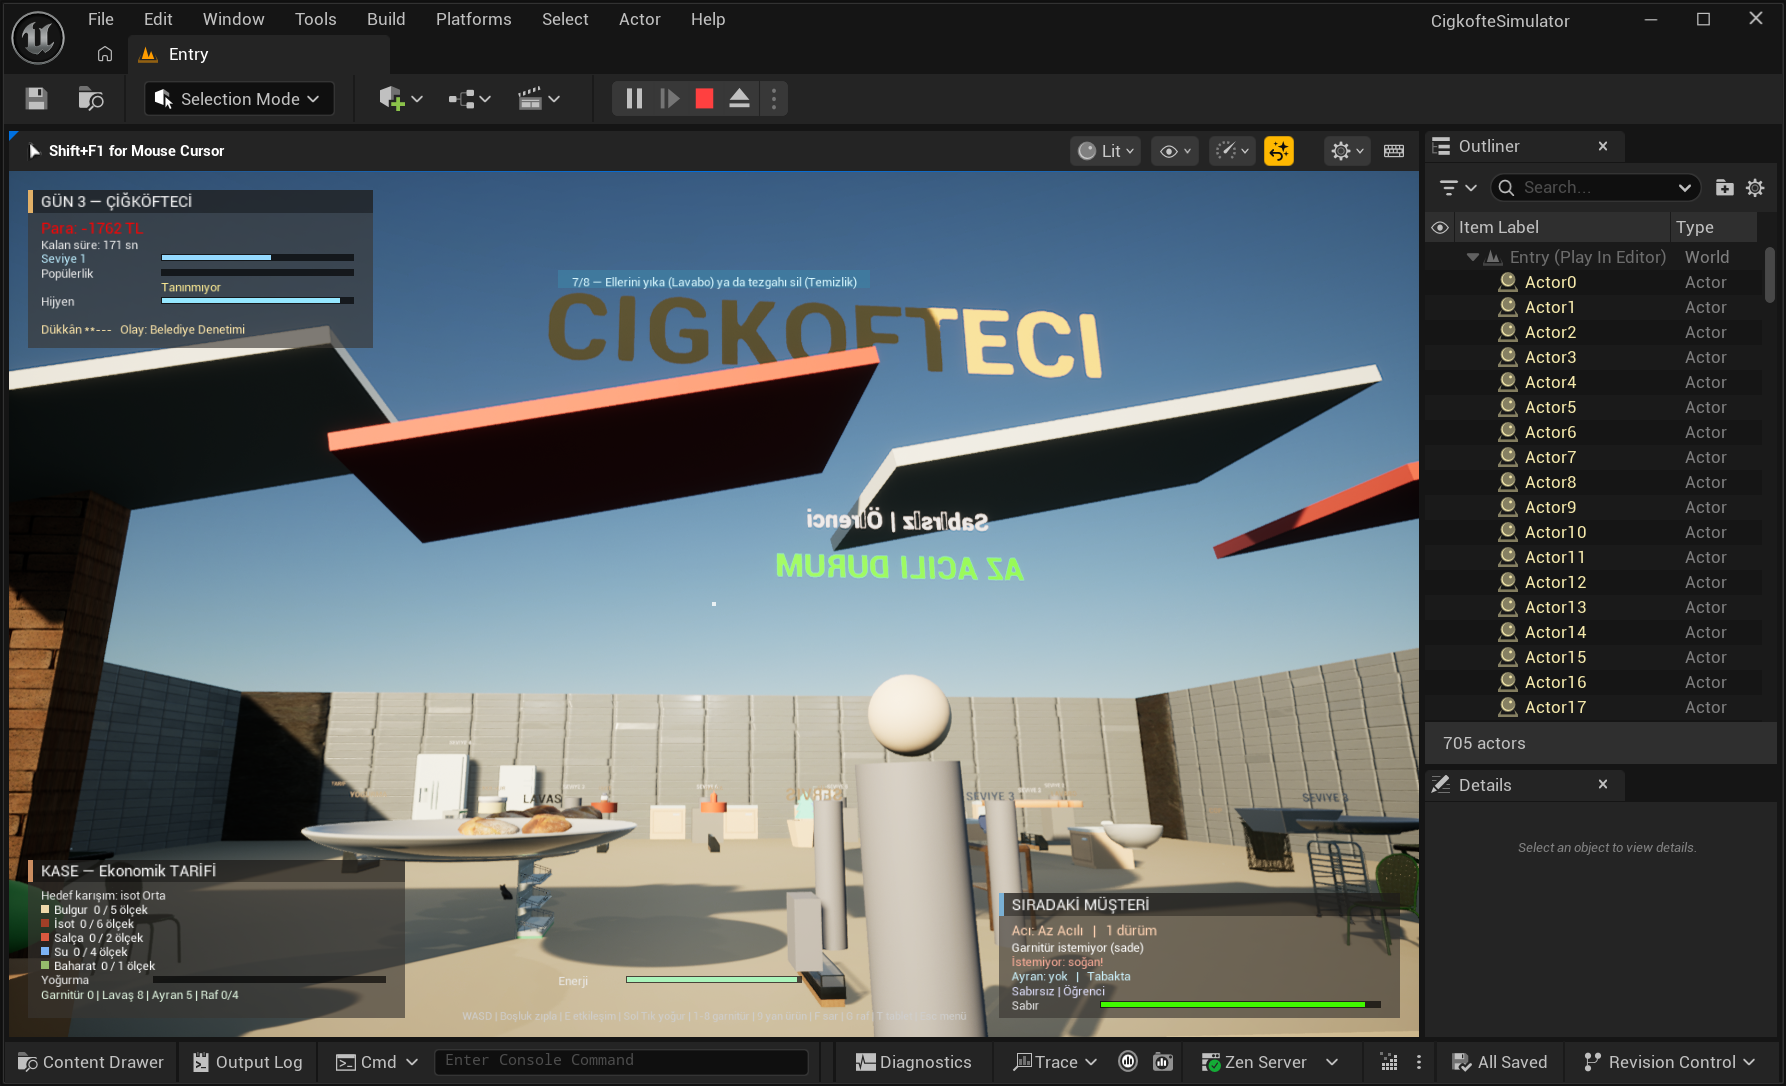
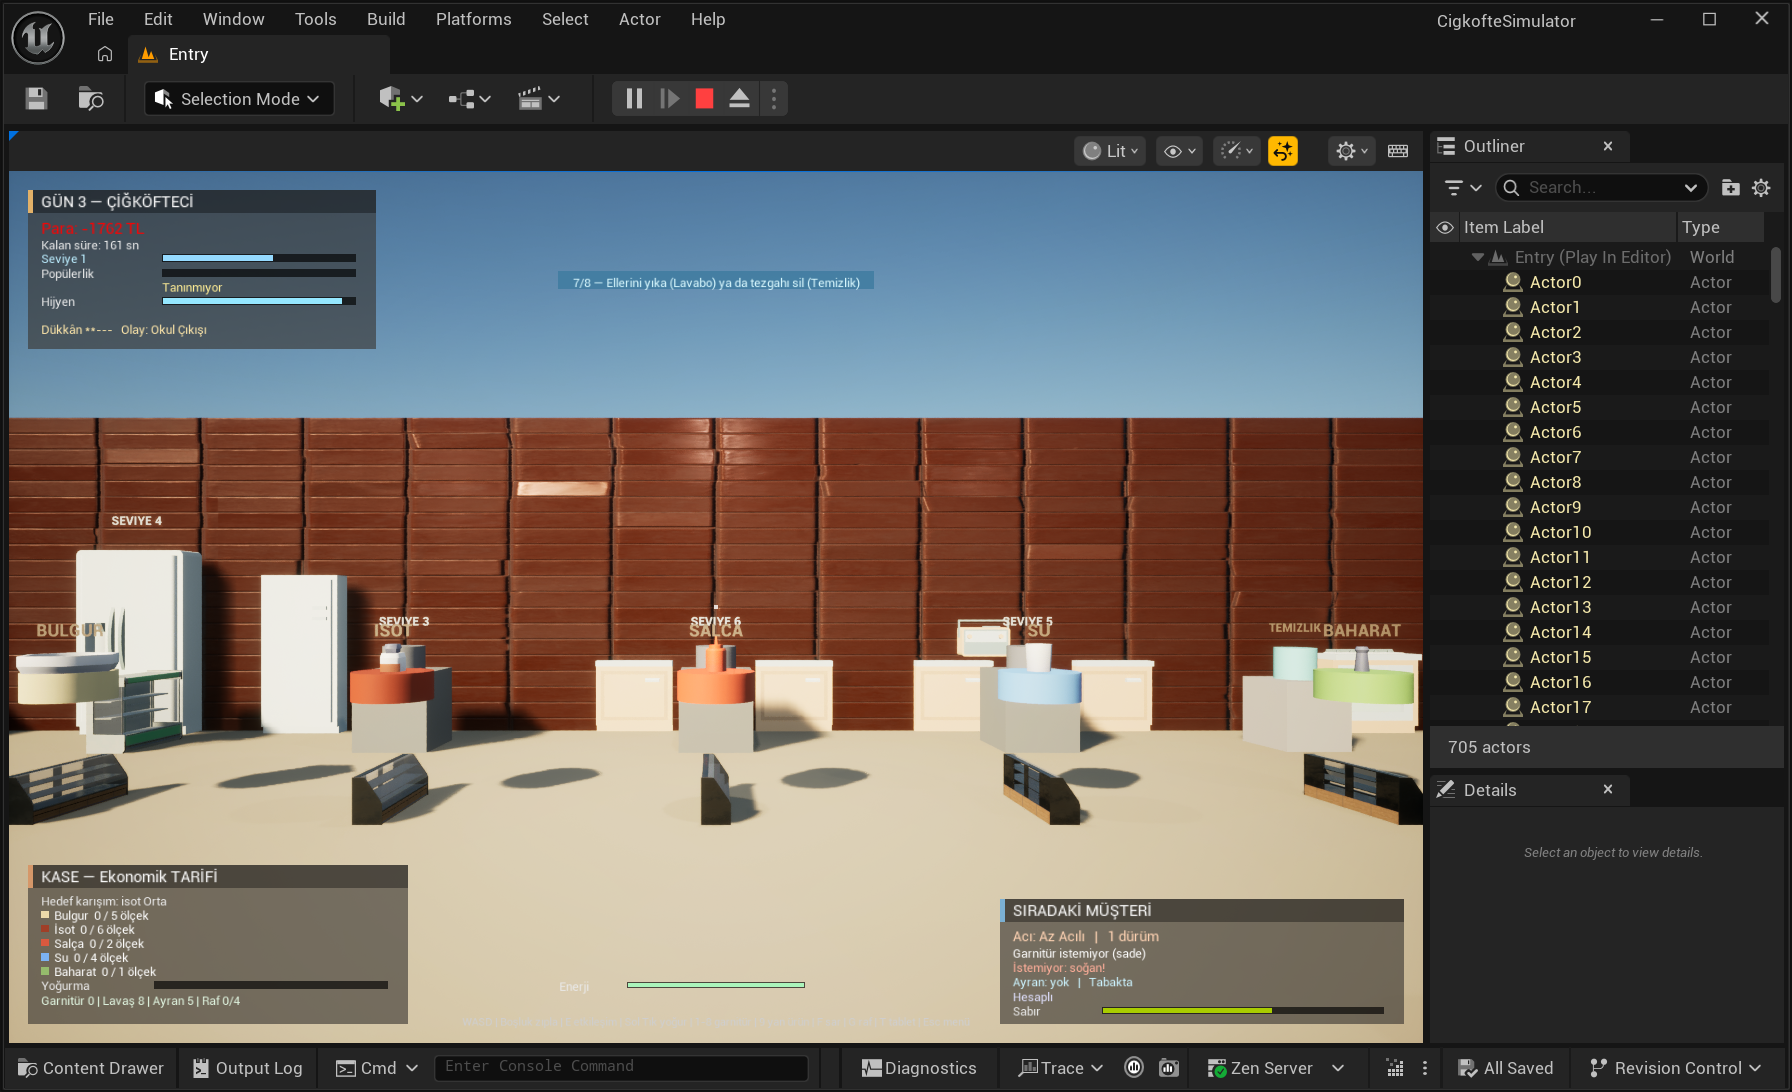
fix: warm red tile inside, not cool grey
Went back and looked at the tiled wall from the counter, which is where the
player stands and which the first shot did not show - that one was taken from
the street because PIE starts the day-3 save outside.

The white tile instance renders as flat cool grey in this lighting, and a cool
grey interior is the one thing the style guide rules out by name: the shop is
meant to read warm, with daylight from the street as the only cool thing in
frame. Red tile fixes it and is also what a Turkish lokanta actually has on its
walls. The brick facade stays as it was.

The tile repeat is still dense for a wall this size - the boxes are scaled up
hugely and the material's UVs were not authored for that - but with the warm
tone it reads as a tiled wall rather than as a texture stretched over a box, so
it can wait behind things that matter more.

Verified from inside the shop this time: ValidateAll all four stages PASS, 74
tests, zero LogCig errors, save untouched.
docs/screenshots/A2-walls-tiled.png replaced with the interior shot.

diff --git a/Source/CigkofteSimulator/World/CigWorldBuilder.cpp b/Source/CigkofteSimulator/World/CigWorldBuilder.cpp
@@ -33,11 +33,18 @@ void UCigWorldBuilder::OnInit()
 	ConeMesh = LoadObject<UStaticMesh>(nullptr, TEXT("/Engine/BasicShapes/Cone.Cone"));
 	BaseMaterial = LoadObject<UMaterialInterface>(nullptr, TEXT("/Engine/BasicShapes/BasicShapeMaterial.BasicShapeMaterial"));
 
-	// A food shop's walls are tiled, and that one surface does more for the
-	// room than any prop in it. Null without the pack, which leaves the painted
-	// boxes exactly as they were.
+	// A food shop's walls are tiled, and that one surface does more for the room
+	// than any prop in it. Null without the pack, which leaves the painted boxes
+	// exactly as they were.
+	//
+	// Red rather than the white this started with. Seen from the counter the
+	// white instance renders as a flat cool grey, and a cool grey interior is
+	// the one thing docs/Art/VISUAL_STYLE_GUIDE.md rules out by name - the shop
+	// is supposed to read warm, with the daylight from the street as the only
+	// cool thing in frame. Red tile is also what a Turkish lokanta actually has
+	// on its walls.
 	WallTileMaterial = LoadObject<UMaterialInterface>(nullptr,
-		TEXT("/Game/ModularBuildingSet/materials/Bricks_Tiles/tile_trim_clean/tile_trim_clean_color_white.tile_trim_clean_color_white"));
+		TEXT("/Game/ModularBuildingSet/materials/Bricks_Tiles/tile_trim_clean/tile_trim_clean_color_red.tile_trim_clean_color_red"));
 	BrickMaterial = LoadObject<UMaterialInterface>(nullptr,
 		TEXT("/Game/ModularBuildingSet/materials/Bricks_Tiles/brick_wall_orange.brick_wall_orange"));
 
